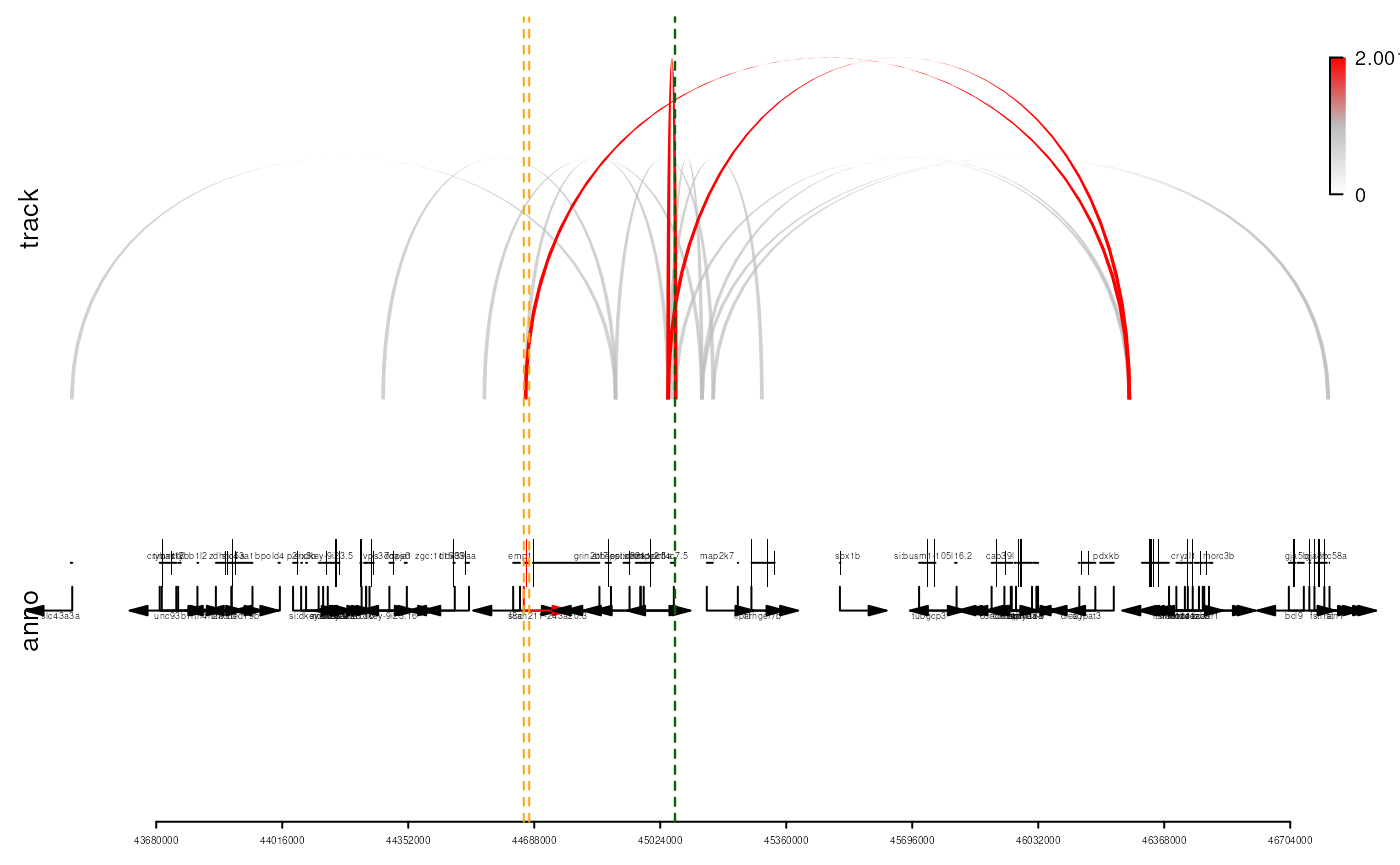
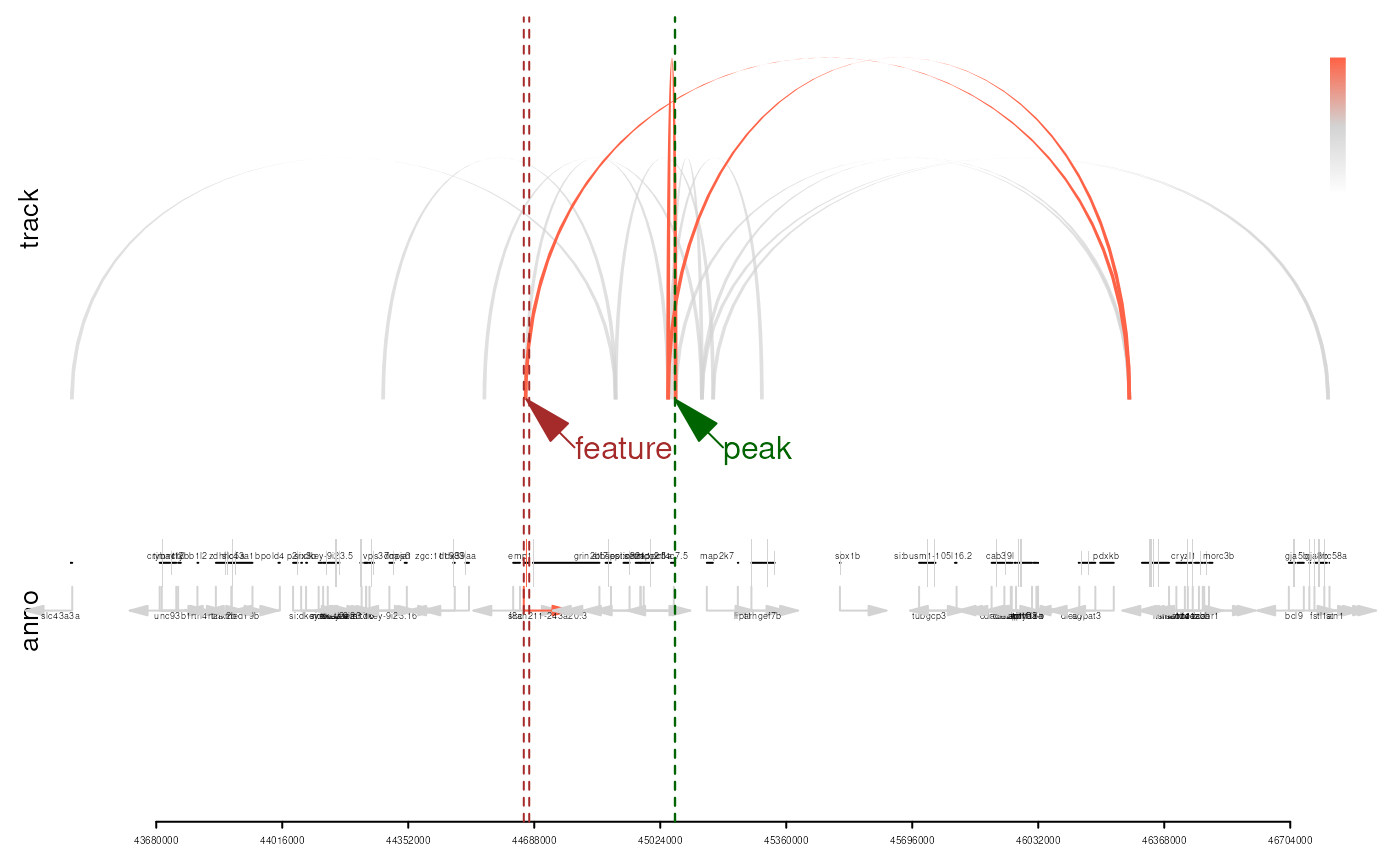
Deploying to gh-pages from @ jianhong/annoLinker@93b00f90a255cb5e75ad9c646b8a0c6c9c5ff18e 🚀

diff --git a/reference/plotEvidence.html b/reference/plotEvidence.html
@@ -57,6 +57,8 @@
 <span>  <span class="va">anno</span>,</span>
 <span>  <span class="va">event</span>,</span>
 <span>  output <span class="op">=</span> <span class="fu"><a href="https://rdrr.io/r/base/c.html" class="external-link">c</a></span><span class="op">(</span><span class="st">"graph"</span>, <span class="st">"htmlWidget"</span>, <span class="st">"trackPlot"</span><span class="op">)</span>,</span>
+<span>  colors <span class="op">=</span> <span class="fu"><a href="https://rdrr.io/r/base/c.html" class="external-link">c</a></span><span class="op">(</span>peak <span class="op">=</span> <span class="st">"darkgreen"</span>, feature <span class="op">=</span> <span class="st">"brown"</span>, node <span class="op">=</span> <span class="st">"tomato"</span>, background <span class="op">=</span></span>
+<span>    <span class="st">"lightgray"</span><span class="op">)</span>,</span>
 <span>  <span class="va">txdb</span>,</span>
 <span>  <span class="va">org</span></span>
 <span><span class="op">)</span></span></code></pre></div>
@@ -78,6 +80,10 @@
 <dd><p>Output of the plot.</p></dd>
 
 
+<dt id="arg-colors">colors<a class="anchor" aria-label="anchor" href="#arg-colors"></a></dt>
+<dd><p>Colors settting for the plot.</p></dd>
+
+
 <dt id="arg-txdb-org">txdb, org<a class="anchor" aria-label="anchor" href="#arg-txdb-org"></a></dt>
 <dd><p>The TxDb and OrgDb object used for annotation plot.</p></dd>
 
@@ -93,10 +99,8 @@
 <span class="r-in"><span><span class="fu">plotEvidence</span><span class="op">(</span><span class="va">anno</span>, event<span class="op">=</span><span class="va">n</span>,</span></span>
 <span class="r-in"><span> output<span class="op">=</span><span class="st">'htmlWidget'</span><span class="op">)</span></span></span>
 <div id="htmlwidget-ac96cb3ee4656e2e9ec3" style="width:700px;height:432.632880098888px;" class="visNetwork html-widget"></div>
-<script type="application/json" data-for="htmlwidget-ac96cb3ee4656e2e9ec3">{"x":{"nodes":{"id":["chr1:45130001-45140000","chr1:45050001-45060000","chr1:44900001-44910000","chr1:45060001-45070000","chr1:45040001-45050000","chr1:44550001-44560000","chr1:45160001-45170000","chr1:44280001-44290000","chr1:43450001-43460000","chr1:44660001-44670000","chr1:46800001-46810000","chr1:46270001-46280000","chr1:45290001-45300000","chr1:45062825-45063844","100151507:44660095-44674627:+"],"label":["chr1:45130001-45140000","chr1:45050001-45060000","chr1:44900001-44910000","chr1:45060001-45070000","chr1:45040001-45050000","chr1:44550001-44560000","chr1:45160001-45170000","chr1:44280001-44290000","chr1:43450001-43460000","chr1:44660001-44670000","chr1:46800001-46810000","chr1:46270001-46280000","chr1:45290001-45300000","peak","target feature"],"title":["chr1:45130001-45140000","chr1:45050001-45060000","chr1:44900001-44910000","chr1:45060001-45070000","chr1:45040001-45050000","chr1:44550001-44560000","chr1:45160001-45170000","chr1:44280001-44290000","chr1:43450001-43460000","chr1:44660001-44670000","chr1:46800001-46810000","chr1:46270001-46280000","chr1:45290001-45300000","chr1:45062825-45063844","100151507:44660095-44674627:+"],"color":["lightgray","lightgray","lightgray","tomato","tomato","lightgray","lightgray","lightgray","lightgray","tomato","lightgray","tomato","lightgray","darkgreen","brown"],"size":[15,15,15,20,20,15,15,15,15,20,15,20,15,25,25]},"edges":{"from":["chr1:45130001-45140000","chr1:45130001-45140000","chr1:44900001-44910000","chr1:44900001-44910000","chr1:44900001-44910000","chr1:45040001-45050000","chr1:45130001-45140000","chr1:45160001-45170000","chr1:45130001-45140000","chr1:45060001-45070000","chr1:45040001-45050000","chr1:45040001-45050000","chr1:45060001-45070000","chr1:44660001-44670000"],"to":["chr1:45050001-45060000","chr1:44550001-44560000","chr1:45160001-45170000","chr1:44280001-44290000","chr1:43450001-43460000","chr1:44660001-44670000","chr1:46800001-46810000","chr1:46800001-46810000","chr1:46270001-46280000","chr1:46270001-46280000","chr1:46270001-46280000","chr1:45290001-45300000","chr1:45062825-45063844","100151507:44660095-44674627:+"]},"nodesToDataframe":true,"edgesToDataframe":true,"options":{"width":"100%","height":"100%","nodes":{"shape":"dot"},"manipulation":{"enabled":false}},"groups":null,"width":null,"height":null,"idselection":{"enabled":true,"style":"width: 150px; height: 26px","useLabels":true,"main":"Select by id"},"byselection":{"enabled":false,"style":"width: 150px; height: 26px","multiple":false,"hideColor":"rgba(200,200,200,0.5)","highlight":false},"main":null,"submain":null,"footer":null,"background":"rgba(0, 0, 0, 0)","highlight":{"enabled":true,"hoverNearest":false,"degree":1,"algorithm":"all","hideColor":"rgba(200,200,200,0.5)","labelOnly":true},"collapse":{"enabled":false,"fit":false,"resetHighlight":true,"clusterOptions":null,"keepCoord":true,"labelSuffix":"(cluster)"}},"evals":[],"jsHooks":[]}</script><span class="r-in"><span><span class="fu">plotEvidence</span><span class="op">(</span><span class="va">anno</span>, event<span class="op">=</span><span class="va">n</span>,</span></span>
-<span class="r-in"><span> output<span class="op">=</span><span class="st">'trackPlot'</span>,</span></span>
-<span class="r-in"><span> txdb<span class="op">=</span><span class="va">TxDb.Drerio.UCSC.danRer10.refGene</span>,</span></span>
-<span class="r-in"><span> org<span class="op">=</span><span class="va">org.Dr.eg.db</span><span class="op">)</span></span></span>
+<script type="application/json" data-for="htmlwidget-ac96cb3ee4656e2e9ec3">{"x":{"nodes":{"id":["chr1:45130001-45140000","chr1:45050001-45060000","chr1:44900001-44910000","chr1:45060001-45070000","chr1:45040001-45050000","chr1:44550001-44560000","chr1:45160001-45170000","chr1:44280001-44290000","chr1:43450001-43460000","chr1:44660001-44670000","chr1:46800001-46810000","chr1:46270001-46280000","chr1:45290001-45300000","chr1:45062825-45063844","chr1:44660095-44674627:+"],"label":["chr1:45130001-45140000","chr1:45050001-45060000","chr1:44900001-44910000","chr1:45060001-45070000","chr1:45040001-45050000","chr1:44550001-44560000","chr1:45160001-45170000","chr1:44280001-44290000","chr1:43450001-43460000","chr1:44660001-44670000","chr1:46800001-46810000","chr1:46270001-46280000","chr1:45290001-45300000","peak","feature"],"title":["chr1:45130001-45140000","chr1:45050001-45060000","chr1:44900001-44910000","chr1:45060001-45070000","chr1:45040001-45050000","chr1:44550001-44560000","chr1:45160001-45170000","chr1:44280001-44290000","chr1:43450001-43460000","chr1:44660001-44670000","chr1:46800001-46810000","chr1:46270001-46280000","chr1:45290001-45300000","chr1:45062825-45063844","chr1:44660095-44674627:+"],"color":["lightgray","lightgray","lightgray","tomato","tomato","lightgray","lightgray","lightgray","lightgray","tomato","lightgray","tomato","lightgray","darkgreen","brown"],"size":[15,15,15,20,20,15,15,15,15,20,15,20,15,25,25]},"edges":{"from":["chr1:45130001-45140000","chr1:45130001-45140000","chr1:44900001-44910000","chr1:44900001-44910000","chr1:44900001-44910000","chr1:45040001-45050000","chr1:45130001-45140000","chr1:45160001-45170000","chr1:45130001-45140000","chr1:45060001-45070000","chr1:45040001-45050000","chr1:45040001-45050000","chr1:45060001-45070000","chr1:44660001-44670000"],"to":["chr1:45050001-45060000","chr1:44550001-44560000","chr1:45160001-45170000","chr1:44280001-44290000","chr1:43450001-43460000","chr1:44660001-44670000","chr1:46800001-46810000","chr1:46800001-46810000","chr1:46270001-46280000","chr1:46270001-46280000","chr1:46270001-46280000","chr1:45290001-45300000","chr1:45062825-45063844","chr1:44660095-44674627:+"]},"nodesToDataframe":true,"edgesToDataframe":true,"options":{"width":"100%","height":"100%","nodes":{"shape":"dot"},"manipulation":{"enabled":false}},"groups":null,"width":null,"height":null,"idselection":{"enabled":true,"style":"width: 150px; height: 26px","useLabels":true,"main":"Select by id"},"byselection":{"enabled":false,"style":"width: 150px; height: 26px","multiple":false,"hideColor":"rgba(200,200,200,0.5)","highlight":false},"main":null,"submain":null,"footer":null,"background":"rgba(0, 0, 0, 0)","highlight":{"enabled":true,"hoverNearest":false,"degree":1,"algorithm":"all","hideColor":"rgba(200,200,200,0.5)","labelOnly":true},"collapse":{"enabled":false,"fit":false,"resetHighlight":true,"clusterOptions":null,"keepCoord":true,"labelSuffix":"(cluster)"}},"evals":[],"jsHooks":[]}</script><span class="r-in"><span><span class="fu">plotEvidence</span><span class="op">(</span><span class="va">anno</span>, event<span class="op">=</span><span class="va">n</span>,</span></span>
+<span class="r-in"><span> output<span class="op">=</span><span class="st">'trackPlot'</span><span class="op">)</span></span></span>
 <span class="r-plt img"><img src="plotEvidence-1.png" alt="" width="700" height="433"></span>
 <span class="r-out co"><span class="r-pr">#&gt;</span> NULL</span>
 </code></pre></div>

diff --git a/articles/annoLinker.html b/articles/annoLinker.html
@@ -108,7 +108,7 @@ Ou</h4>
 <span><span class="fu"><a href="../reference/plotEvidence.html">plotEvidence</a></span><span class="op">(</span><span class="va">anno</span>, event<span class="op">=</span><span class="fl">1</span>,</span>
 <span>             output<span class="op">=</span><span class="st">'htmlWidget'</span><span class="op">)</span></span></code></pre></div>
 <div class="visNetwork html-widget html-fill-item" id="htmlwidget-ac96cb3ee4656e2e9ec3" style="width:700px;height:432.632880098888px;"></div>
-<script type="application/json" data-for="htmlwidget-ac96cb3ee4656e2e9ec3">{"x":{"nodes":{"id":["chr1:45130001-45140000","chr1:45050001-45060000","chr1:44900001-44910000","chr1:45060001-45070000","chr1:45040001-45050000","chr1:44550001-44560000","chr1:45160001-45170000","chr1:44280001-44290000","chr1:43450001-43460000","chr1:44660001-44670000","chr1:46800001-46810000","chr1:46270001-46280000","chr1:45290001-45300000","chr1:45062825-45063844","100151507:44660095-44674627:+"],"label":["chr1:45130001-45140000","chr1:45050001-45060000","chr1:44900001-44910000","chr1:45060001-45070000","chr1:45040001-45050000","chr1:44550001-44560000","chr1:45160001-45170000","chr1:44280001-44290000","chr1:43450001-43460000","chr1:44660001-44670000","chr1:46800001-46810000","chr1:46270001-46280000","chr1:45290001-45300000","peak","target feature"],"title":["chr1:45130001-45140000","chr1:45050001-45060000","chr1:44900001-44910000","chr1:45060001-45070000","chr1:45040001-45050000","chr1:44550001-44560000","chr1:45160001-45170000","chr1:44280001-44290000","chr1:43450001-43460000","chr1:44660001-44670000","chr1:46800001-46810000","chr1:46270001-46280000","chr1:45290001-45300000","chr1:45062825-45063844","100151507:44660095-44674627:+"],"color":["lightgray","lightgray","lightgray","tomato","tomato","lightgray","lightgray","lightgray","lightgray","tomato","lightgray","tomato","lightgray","darkgreen","brown"],"size":[15,15,15,20,20,15,15,15,15,20,15,20,15,25,25]},"edges":{"from":["chr1:45130001-45140000","chr1:45130001-45140000","chr1:44900001-44910000","chr1:44900001-44910000","chr1:44900001-44910000","chr1:45040001-45050000","chr1:45130001-45140000","chr1:45160001-45170000","chr1:45130001-45140000","chr1:45060001-45070000","chr1:45040001-45050000","chr1:45040001-45050000","chr1:45060001-45070000","chr1:44660001-44670000"],"to":["chr1:45050001-45060000","chr1:44550001-44560000","chr1:45160001-45170000","chr1:44280001-44290000","chr1:43450001-43460000","chr1:44660001-44670000","chr1:46800001-46810000","chr1:46800001-46810000","chr1:46270001-46280000","chr1:46270001-46280000","chr1:46270001-46280000","chr1:45290001-45300000","chr1:45062825-45063844","100151507:44660095-44674627:+"]},"nodesToDataframe":true,"edgesToDataframe":true,"options":{"width":"100%","height":"100%","nodes":{"shape":"dot"},"manipulation":{"enabled":false}},"groups":null,"width":null,"height":null,"idselection":{"enabled":true,"style":"width: 150px; height: 26px","useLabels":true,"main":"Select by id"},"byselection":{"enabled":false,"style":"width: 150px; height: 26px","multiple":false,"hideColor":"rgba(200,200,200,0.5)","highlight":false},"main":null,"submain":null,"footer":null,"background":"rgba(0, 0, 0, 0)","highlight":{"enabled":true,"hoverNearest":false,"degree":1,"algorithm":"all","hideColor":"rgba(200,200,200,0.5)","labelOnly":true},"collapse":{"enabled":false,"fit":false,"resetHighlight":true,"clusterOptions":null,"keepCoord":true,"labelSuffix":"(cluster)"}},"evals":[],"jsHooks":[]}</script><div class="sourceCode" id="cb2"><pre class="downlit sourceCode r">
+<script type="application/json" data-for="htmlwidget-ac96cb3ee4656e2e9ec3">{"x":{"nodes":{"id":["chr1:45130001-45140000","chr1:45050001-45060000","chr1:44900001-44910000","chr1:45060001-45070000","chr1:45040001-45050000","chr1:44550001-44560000","chr1:45160001-45170000","chr1:44280001-44290000","chr1:43450001-43460000","chr1:44660001-44670000","chr1:46800001-46810000","chr1:46270001-46280000","chr1:45290001-45300000","chr1:45062825-45063844","chr1:44660095-44674627:+"],"label":["chr1:45130001-45140000","chr1:45050001-45060000","chr1:44900001-44910000","chr1:45060001-45070000","chr1:45040001-45050000","chr1:44550001-44560000","chr1:45160001-45170000","chr1:44280001-44290000","chr1:43450001-43460000","chr1:44660001-44670000","chr1:46800001-46810000","chr1:46270001-46280000","chr1:45290001-45300000","peak","feature"],"title":["chr1:45130001-45140000","chr1:45050001-45060000","chr1:44900001-44910000","chr1:45060001-45070000","chr1:45040001-45050000","chr1:44550001-44560000","chr1:45160001-45170000","chr1:44280001-44290000","chr1:43450001-43460000","chr1:44660001-44670000","chr1:46800001-46810000","chr1:46270001-46280000","chr1:45290001-45300000","chr1:45062825-45063844","chr1:44660095-44674627:+"],"color":["lightgray","lightgray","lightgray","tomato","tomato","lightgray","lightgray","lightgray","lightgray","tomato","lightgray","tomato","lightgray","darkgreen","brown"],"size":[15,15,15,20,20,15,15,15,15,20,15,20,15,25,25]},"edges":{"from":["chr1:45130001-45140000","chr1:45130001-45140000","chr1:44900001-44910000","chr1:44900001-44910000","chr1:44900001-44910000","chr1:45040001-45050000","chr1:45130001-45140000","chr1:45160001-45170000","chr1:45130001-45140000","chr1:45060001-45070000","chr1:45040001-45050000","chr1:45040001-45050000","chr1:45060001-45070000","chr1:44660001-44670000"],"to":["chr1:45050001-45060000","chr1:44550001-44560000","chr1:45160001-45170000","chr1:44280001-44290000","chr1:43450001-43460000","chr1:44660001-44670000","chr1:46800001-46810000","chr1:46800001-46810000","chr1:46270001-46280000","chr1:46270001-46280000","chr1:46270001-46280000","chr1:45290001-45300000","chr1:45062825-45063844","chr1:44660095-44674627:+"]},"nodesToDataframe":true,"edgesToDataframe":true,"options":{"width":"100%","height":"100%","nodes":{"shape":"dot"},"manipulation":{"enabled":false}},"groups":null,"width":null,"height":null,"idselection":{"enabled":true,"style":"width: 150px; height: 26px","useLabels":true,"main":"Select by id"},"byselection":{"enabled":false,"style":"width: 150px; height: 26px","multiple":false,"hideColor":"rgba(200,200,200,0.5)","highlight":false},"main":null,"submain":null,"footer":null,"background":"rgba(0, 0, 0, 0)","highlight":{"enabled":true,"hoverNearest":false,"degree":1,"algorithm":"all","hideColor":"rgba(200,200,200,0.5)","labelOnly":true},"collapse":{"enabled":false,"fit":false,"resetHighlight":true,"clusterOptions":null,"keepCoord":true,"labelSuffix":"(cluster)"}},"evals":[],"jsHooks":[]}</script><div class="sourceCode" id="cb2"><pre class="downlit sourceCode r">
 <code class="sourceCode R"><span><span class="fu"><a href="../reference/plotEvidence.html">plotEvidence</a></span><span class="op">(</span><span class="va">anno</span>, event<span class="op">=</span><span class="fl">1</span>,</span>
 <span>             output<span class="op">=</span><span class="st">'trackPlot'</span>,</span>
 <span>             txdb<span class="op">=</span><span class="va">TxDb.Drerio.UCSC.danRer10.refGene</span>,</span>

diff --git a/reference/annoLinkerResult-class.html b/reference/annoLinkerResult-class.html
@@ -169,8 +169,8 @@ interaction graph, which is an igraph graph.</p>
 <span class="r-out co"><span class="r-pr">#&gt;</span>       &lt;Rle&gt; &lt;IRanges&gt;  &lt;Rle&gt;</span>
 <span class="r-out co"><span class="r-pr">#&gt;</span>   -------</span>
 <span class="r-out co"><span class="r-pr">#&gt;</span>   seqinfo: no sequences</span>
-<span class="r-out co"><span class="r-pr">#&gt;</span> IGRAPH b10a083 D--- 0 0 -- </span>
-<span class="r-out co"><span class="r-pr">#&gt;</span> + edges from b10a083:</span>
+<span class="r-out co"><span class="r-pr">#&gt;</span> IGRAPH 6de704a D--- 0 0 -- </span>
+<span class="r-out co"><span class="r-pr">#&gt;</span> + edges from 6de704a:</span>
 </code></pre></div>
     </div>
   </div>
